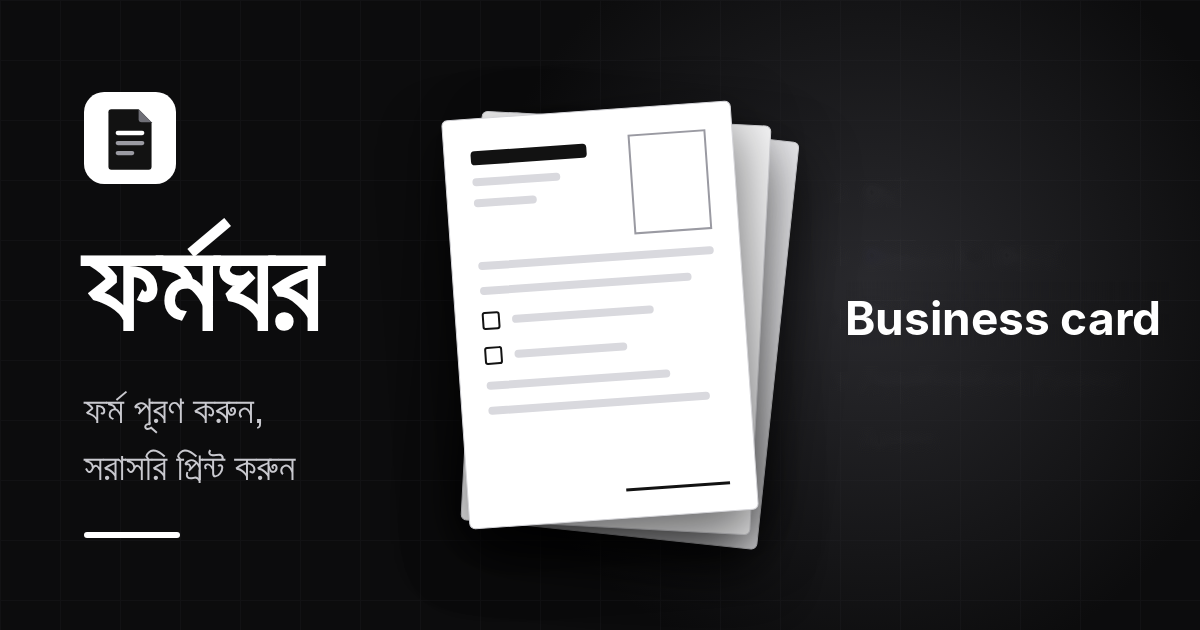
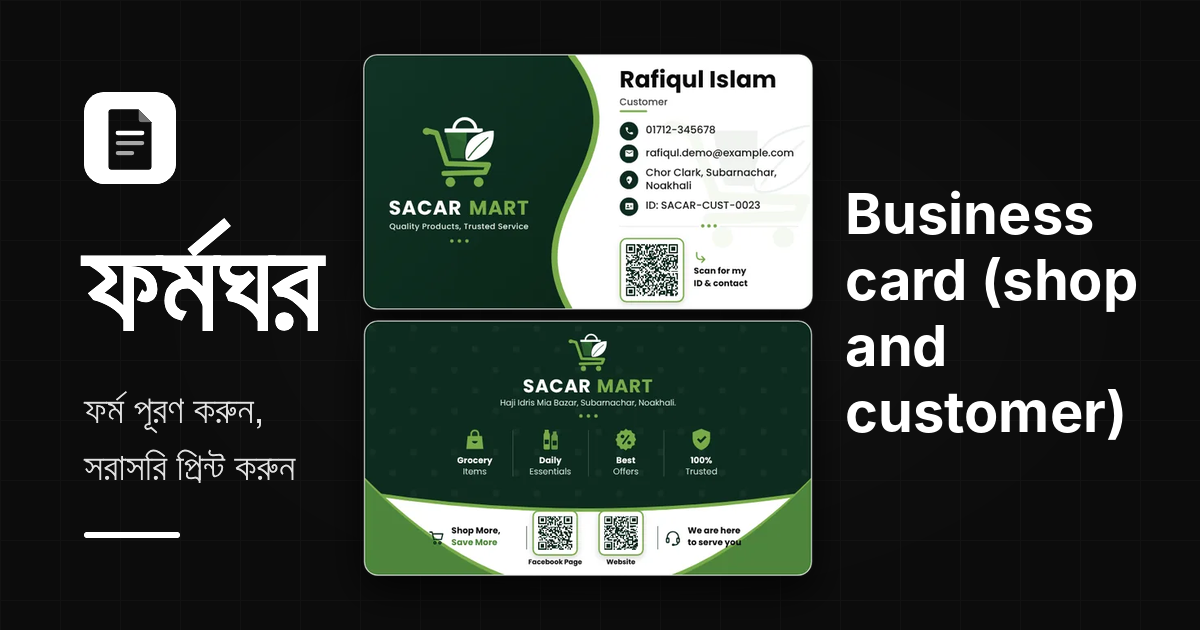
Update new version

diff --git a/tools/make-og.py b/tools/make-og.py
@@ -1,0 +1,104 @@
+import os, re, sys
+import numpy as np
+from PIL import Image, ImageDraw, ImageFont, ImageFilter
+
+HERE = os.path.dirname(os.path.abspath(__file__))
+ROOT = os.path.dirname(HERE) + '/'
+W, H = 1200, 630
+BOX_W, BOX_H = 450, 540
+CX = 588
+TITLE_X = 845
+FONT_CANDIDATES = [
+    os.environ.get('OG_FONT', ''),
+    '/usr/share/fonts/opentype/inter/Inter-Bold.otf',
+    '/usr/share/fonts/truetype/inter/Inter-Bold.ttf',
+    'Inter-Bold.otf',
+    'Inter-Bold.ttf',
+]
+FONT = next((p for p in FONT_CANDIDATES if p and os.path.exists(p)), None)
+if not FONT:
+    sys.exit('Inter Bold font not found. Set OG_FONT=/path/to/Inter-Bold.otf')
+
+
+def background():
+    a = np.full((H, W), 12.0)
+    yy, xx = np.mgrid[0:H, 0:W]
+    d = np.sqrt(((xx - 640) / 700.0) ** 2 + ((yy - 315) / 420.0) ** 2)
+    a += np.clip(1 - d, 0, 1) ** 2 * 9
+    a[:, ::60] = np.maximum(a[:, ::60], 18 + np.clip(1 - d[:, ::60], 0, 1) * 4)
+    a[::60, :] = np.maximum(a[::60, :], 18 + np.clip(1 - d[::60, :], 0, 1) * 4)
+    return Image.fromarray(np.clip(a, 0, 255).astype('uint8')).convert('RGBA')
+
+
+def wrap(draw, text, font, maxw):
+    lines, cur = [], ''
+    for w in text.split():
+        t = (cur + ' ' + w).strip()
+        if draw.textlength(t, font=font) <= maxw:
+            cur = t
+        else:
+            if cur:
+                lines.append(cur)
+            cur = w
+    if cur:
+        lines.append(cur)
+    return lines
+
+
+def fit_title(draw, text, maxw=340, maxh=420):
+    for size in range(56, 28, -2):
+        f = ImageFont.truetype(FONT, size)
+        lines = wrap(draw, text, f, maxw)
+        if all(draw.textlength(l, font=f) <= maxw for l in lines) and len(lines) * size * 1.18 <= maxh and len(lines) <= 4:
+            break
+    return f, lines, size
+
+
+def load_forms():
+    reg = open(ROOT + 'forms/registry.js', encoding='utf-8').read()
+    return re.findall(r"slug:\s*'([^']+)'.*?title:\s*\{\s*bn:\s*'[^']*',\s*en:\s*'([^']*)'", reg, re.S)
+
+
+def build(slug, title, brand, out_dir):
+    img = background()
+    img.alpha_composite(brand, (60, 80))
+    pv = Image.open(ROOT + 'assets/previews/%s.webp' % slug).convert('RGBA')
+    bb = pv.split()[3].point(lambda v: 255 if v > 20 else 0).getbbox()
+    if bb:
+        pv = pv.crop(bb)
+    s = min(BOX_W / pv.width, BOX_H / pv.height)
+    pv = pv.resize((round(pv.width * s), round(pv.height * s)), Image.LANCZOS)
+    x, y = CX - pv.width // 2, (H - pv.height) // 2
+    shadow = Image.new('RGBA', (W, H), (0, 0, 0, 0))
+    black = Image.new('RGBA', pv.size, (0, 0, 0, 255))
+    black.putalpha(pv.split()[3].point(lambda v: int(v * 0.75)))
+    shadow.alpha_composite(black, (x, y + 14))
+    img.alpha_composite(shadow.filter(ImageFilter.GaussianBlur(18)))
+    img.alpha_composite(pv, (x, y))
+    d = ImageDraw.Draw(img)
+    f, lines, size = fit_title(d, title)
+    lh = int(size * 1.18)
+    ty = (H - lh * len(lines)) // 2 - 4
+    for i, l in enumerate(lines):
+        d.text((TITLE_X, ty + i * lh), l, font=f, fill=(255, 255, 255, 255))
+    img.convert('RGB').save(os.path.join(out_dir, slug + '.png'), optimize=True)
+
+
+def main():
+    args = sys.argv[1:]
+    out_dir = os.path.join(HERE, 'og-output')
+    if '--out' in args:
+        i = args.index('--out')
+        out_dir = args[i + 1]
+        del args[i:i + 2]
+    os.makedirs(out_dir, exist_ok=True)
+    brand = Image.open(os.path.join(HERE, 'og-brand.png')).convert('RGBA')
+    forms = load_forms()
+    if args:
+        forms = [f for f in forms if f[0] in args]
+    for slug, title in forms:
+        build(slug, title, brand, out_dir)
+        print('done', slug)
+
+
+main()

diff --git a/assets/og/README.md b/assets/og/README.md
@@ -1,0 +1,46 @@
+# শেয়ার ছবি (OG ছবি)
+
+ফেসবুক, হোয়াটসঅ্যাপ ইত্যাদিতে কোনো ফর্মের লিংক শেয়ার করলে যে ছবির প্রিভিউ দেখা যায়, সেই ছবিগুলো এই ফোল্ডারের।
+
+## এই ফোল্ডারে ছবি নেই কেন
+- জিপ ফাইল হালকা রাখতে ছবিগুলো ইচ্ছা করেই জিপে দেওয়া হয় না। ছবিগুলো ডেভেলপারের কাছে আছে এবং GitHub-এ আলাদাভাবে আপলোড করা হয়।
+- জিপে শুধু নমুনা হিসেবে এক-দুটো ছবি থাকে (এখন `oikkya-member-apply.png`)। বাকিগুলো না থাকা মানে ছবি নেই তা নয়।
+- ছবি না থাকলে সাইটের কোনো কাজ আটকায় না। শুধু শেয়ার প্রিভিউতে ছবি আসে না।
+- তাই এই ছবিগুলো নতুন করে বানাতে বা জিপে যোগ করতে হবে না, ডেভেলপার না বললে।
+
+## নিয়ম
+- ফাইলের নাম `<slug>.png`, মাপ ১২০০×৬৩০ পিক্সেল, PNG।
+- প্রতিটা ফর্ম পেজের `og:image` ও `twitter:image` ট্যাগে এই পাথ আগে থেকেই বসানো আছে: `https://saiful-987-yu.github.io/formghor/assets/og/<slug>.png`। তাই ছবি এই ফোল্ডারে ঠিক নামে রাখলেই কাজ করে, কোড বদলাতে হয় না।
+- নতুন ফর্ম যোগ করলে একই নামের নিয়মে (`<slug>.png`) একটা ছবি বানাতে হবে।
+
+## নকশা
+- কালো ব্যাকগ্রাউন্ডে হালকা গ্রিড। বাঁয়ে ফর্মঘরের লোগো, নাম ও ট্যাগলাইন; মাঝখানে ওই ফর্মের আসল ডেমো ২-এর প্রিভিউ (`assets/previews/<slug>.webp`, হোমের কার্ডের ছবির মতো); ডানে ফর্মের ইংরেজি নাম (`forms/registry.js`-এর `title.en`)।
+- মাঝের প্রিভিউ সর্বোচ্চ প্রায় ৪৫০×৫৪০ পিক্সেলের ঘরের ভেতরে নিজে ফিট হয়, লম্বা কাগজ বা আড়াআড়ি কার্ড সব ধরনের জন্য।
+- ফর্মের ডিজাইন বা ডেমো ২ বদলালে প্রিভিউ আবার বানিয়ে এই ছবিও নতুন করে বানাতে হবে।
+- ছবি বানানোর স্ক্রিপ্ট `tools/make-og.py` (ব্র্যান্ডের অংশ `tools/og-brand.png`)। চালানোর নিয়ম: `python3 tools/make-og.py` দিলে সব ফর্মের ছবি `tools/og-output/` ফোল্ডারে তৈরি হয়; নির্দিষ্ট ফর্মের জন্য শেষে slug দিন, যেমন `python3 tools/make-og.py cv-sidebar`; অন্য ফোল্ডারে চাইলে `--out ফোল্ডার`। Pillow, numpy ও Inter Bold ফন্ট লাগে (ফন্ট অন্য জায়গায় থাকলে `OG_FONT=/পাথ/Inter-Bold.otf`)। আউটপুট ছবিগুলো জিপে রাখার দরকার নেই।
+- ছবি বদলে GitHub-এ দিলেও ফেসবুক পুরোনো ছবি ক্যাশ করে রাখতে পারে; Facebook Sharing Debugger-এ লিংক দিয়ে রিফ্রেশ করলে নতুন ছবি আসে।
+
+## ছবির তালিকা (১৮টি)
+
+| ফাইল | ফর্ম | ইংরেজি নাম |
+|---|---|---|
+| `cv-sidebar.png` | সাইডবার সিভি | Sidebar CV |
+| `cv-classic.png` | ক্লাসিক সিভি | Classic CV |
+| `cv-modern.png` | মডার্ন সিভি | Modern CV |
+| `resume.png` | রেজুমি (এক পাতা) | Resume (one page) |
+| `cv-green.png` | গ্রিন সিভি (এক পাতা) | Green CV (one page) |
+| `office-id-card.png` | অফিস আইডি কার্ড | Office ID card |
+| `office-id-maroon.png` | মেরুন অফিস আইডি কার্ড | Maroon office ID card |
+| `school-id-card.png` | স্কুল / মাদ্রাসা আইডি কার্ড | School / madrasa ID card |
+| `school-id-card-2.png` | স্কুল / মাদ্রাসা আইডি কার্ড (আড়াআড়ি) | School / madrasa ID card (landscape) |
+| `teacher-id-card.png` | শিক্ষক আইডি কার্ড | Teacher ID card |
+| `personal-card.png` | ব্যক্তিগত ভিজিটিং কার্ড | Personal visiting card |
+| `nid-info-card.png` | NID তথ্য কার্ড (নমুনা) | NID information card (sample) |
+| `plot-sale-deed.png` | ভিটা ক্রয়ের স্ট্যাম্প দলিল | Plot purchase stamp deed |
+| `school-apply.png` | স্কুলে ভর্তির আবেদন | School admission application |
+| `union-member-apply.png` | ইউনিয়নের সদস্য আবেদন ফরম | Union membership application |
+| `oikkya-member-apply.png` | ঐক্য বিজনেস গ্রুপ সদস্য আবেদন ফরম | Oikkya Business Group member application |
+| `oikkya-deposit-receipt.png` | টাকা জমা ও কিস্তি প্রাপ্তি রসিদ | Deposit and instalment receipt |
+| `business-card.png` | বিজনেস কার্ড (দোকান ও কাস্টমার) | Business card (shop and customer) |
+
+এছাড়া `assets/og-image.png` হলো হোম, প্রোফাইল, ফেভারিট ও সেভ করা ফর্ম পেজের সাধারণ শেয়ার ছবি (এই ফোল্ডারের বাইরে)।
